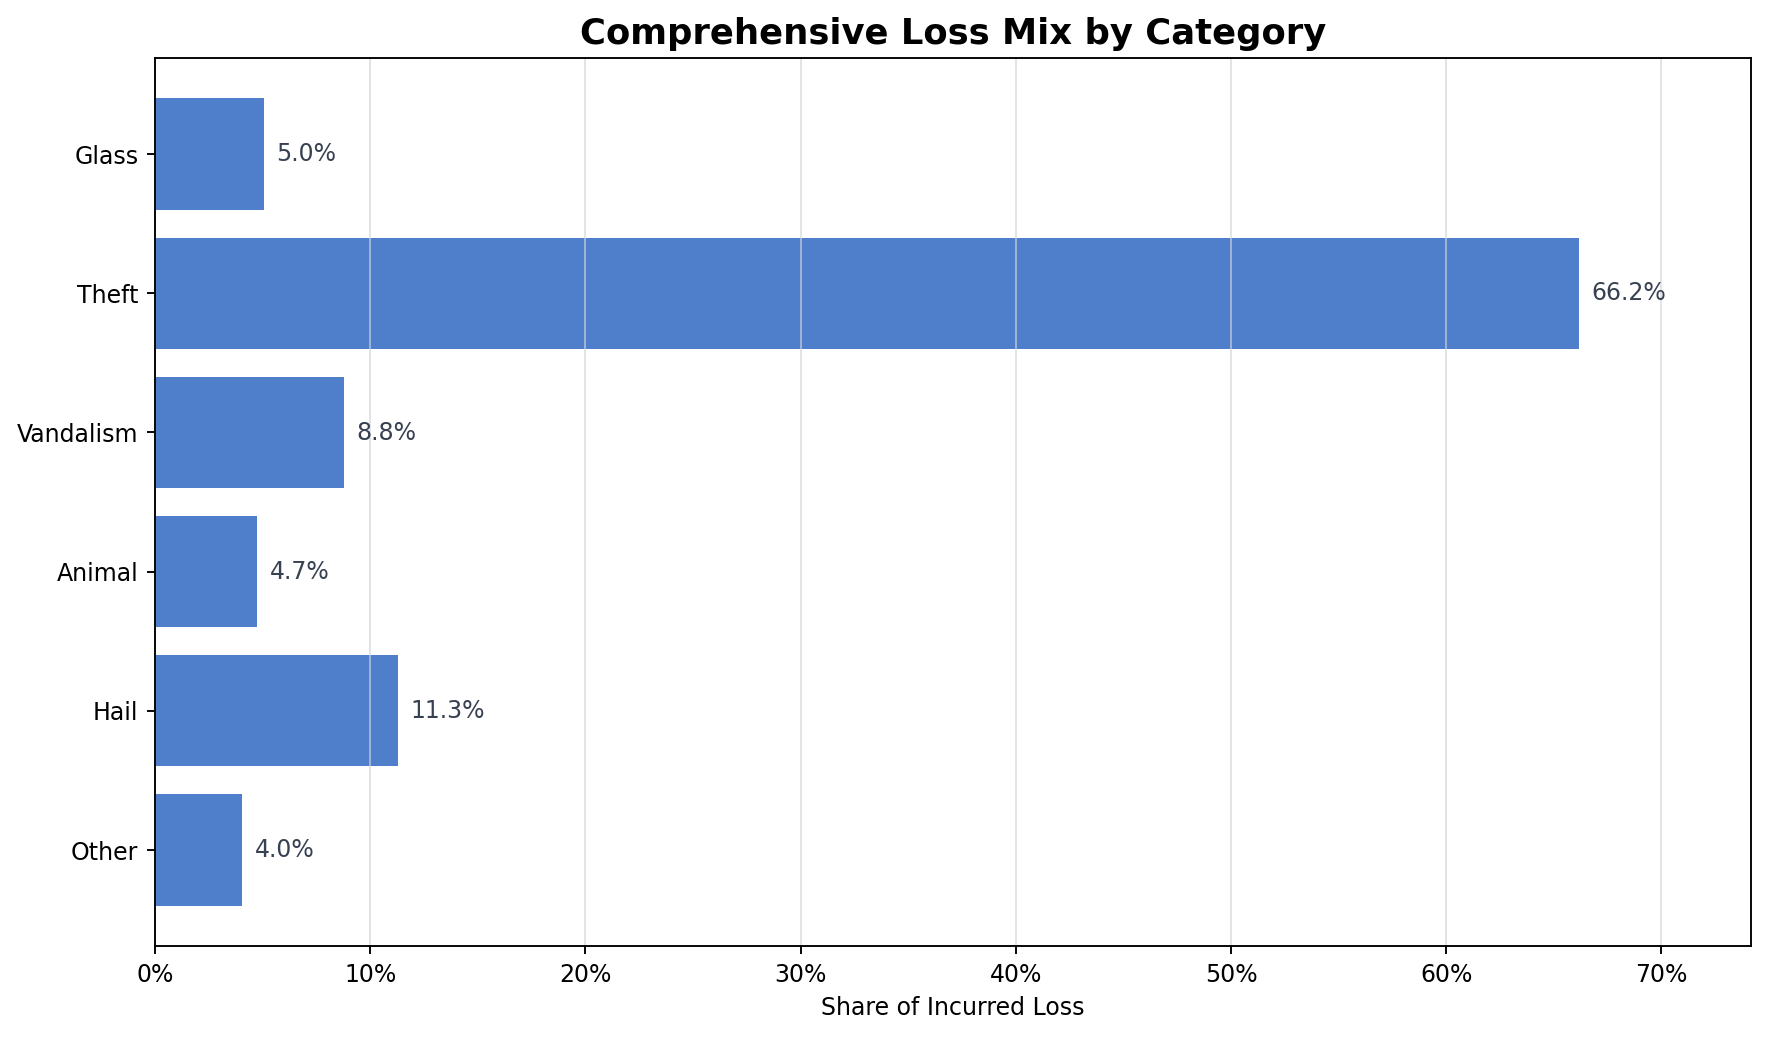
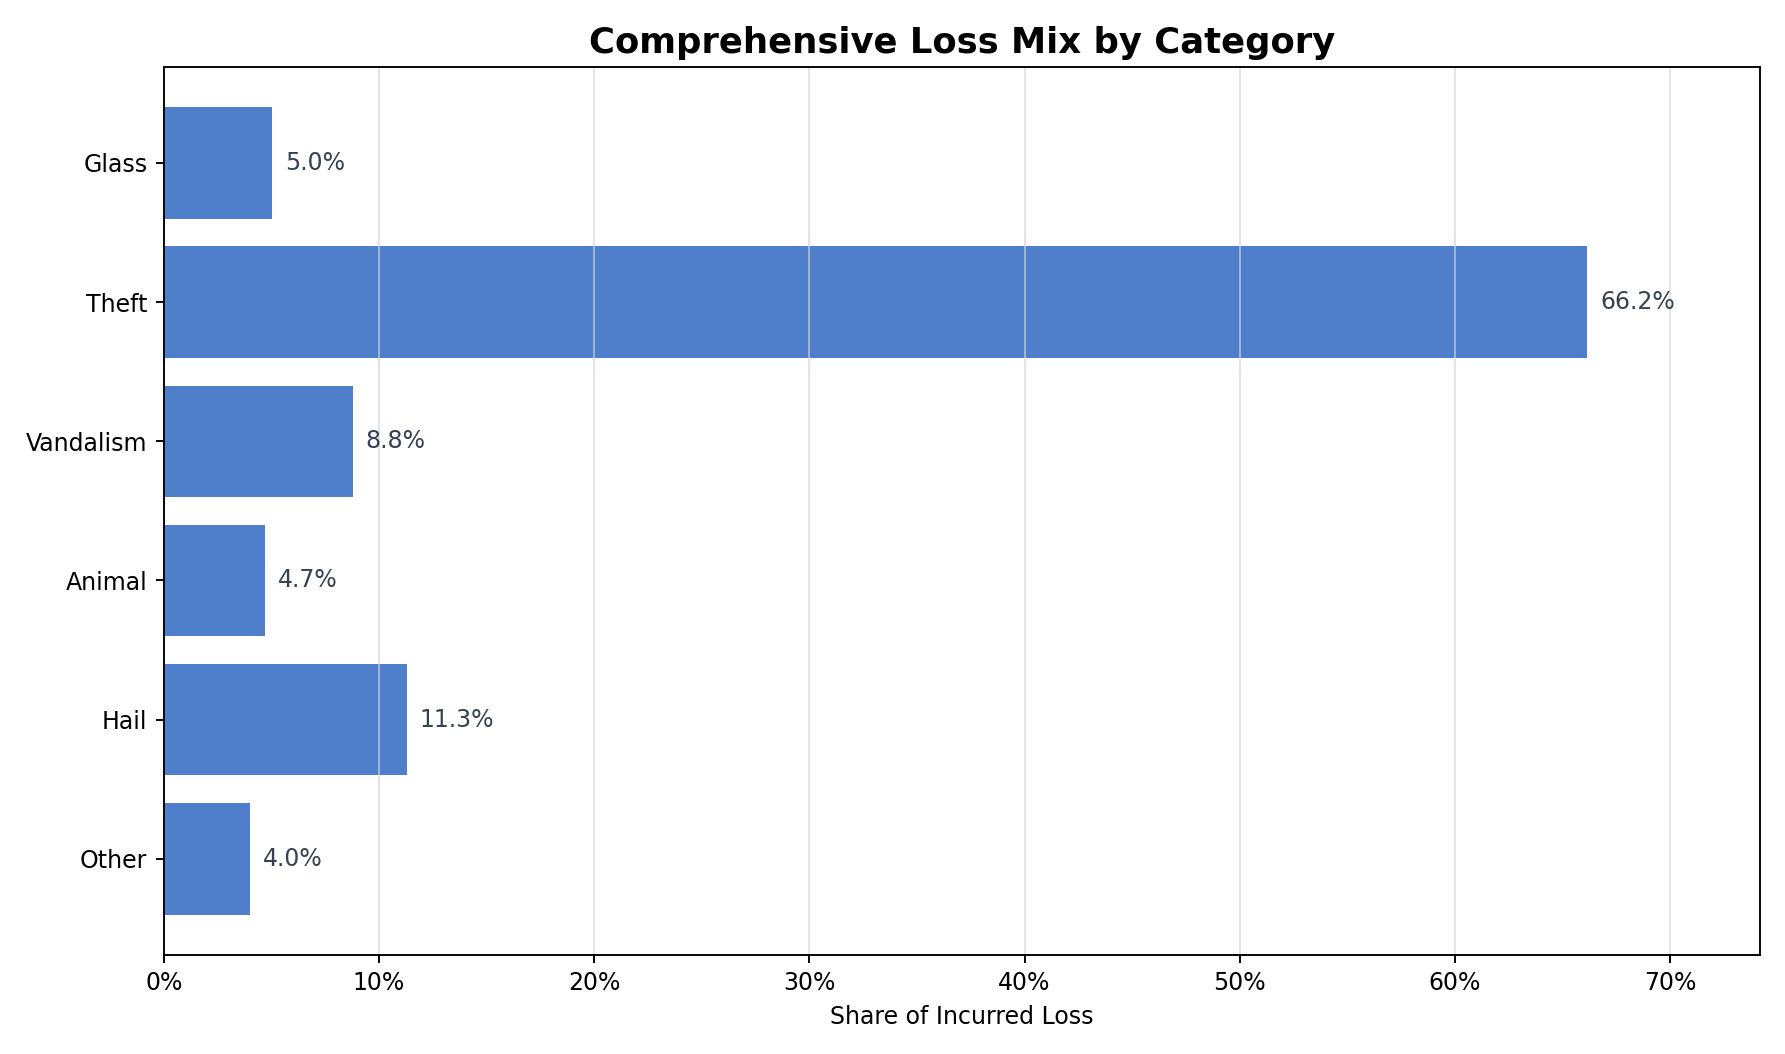
Standardize auto output chart canvases

diff --git a/scripts_generate_outputs.py b/scripts_generate_outputs.py
@@ -26,7 +26,7 @@ def save(fig, name):
     OUTPUT_DIR.mkdir(parents=True, exist_ok=True)
     path = OUTPUT_DIR / name
     fig.tight_layout()
-    fig.savefig(path, dpi=170, bbox_inches="tight")
+    fig.savefig(path, dpi=170)
     plt.close(fig)
     return path
 
@@ -114,4 +114,3 @@ def main():
 
 if __name__ == "__main__":
     main()
-
